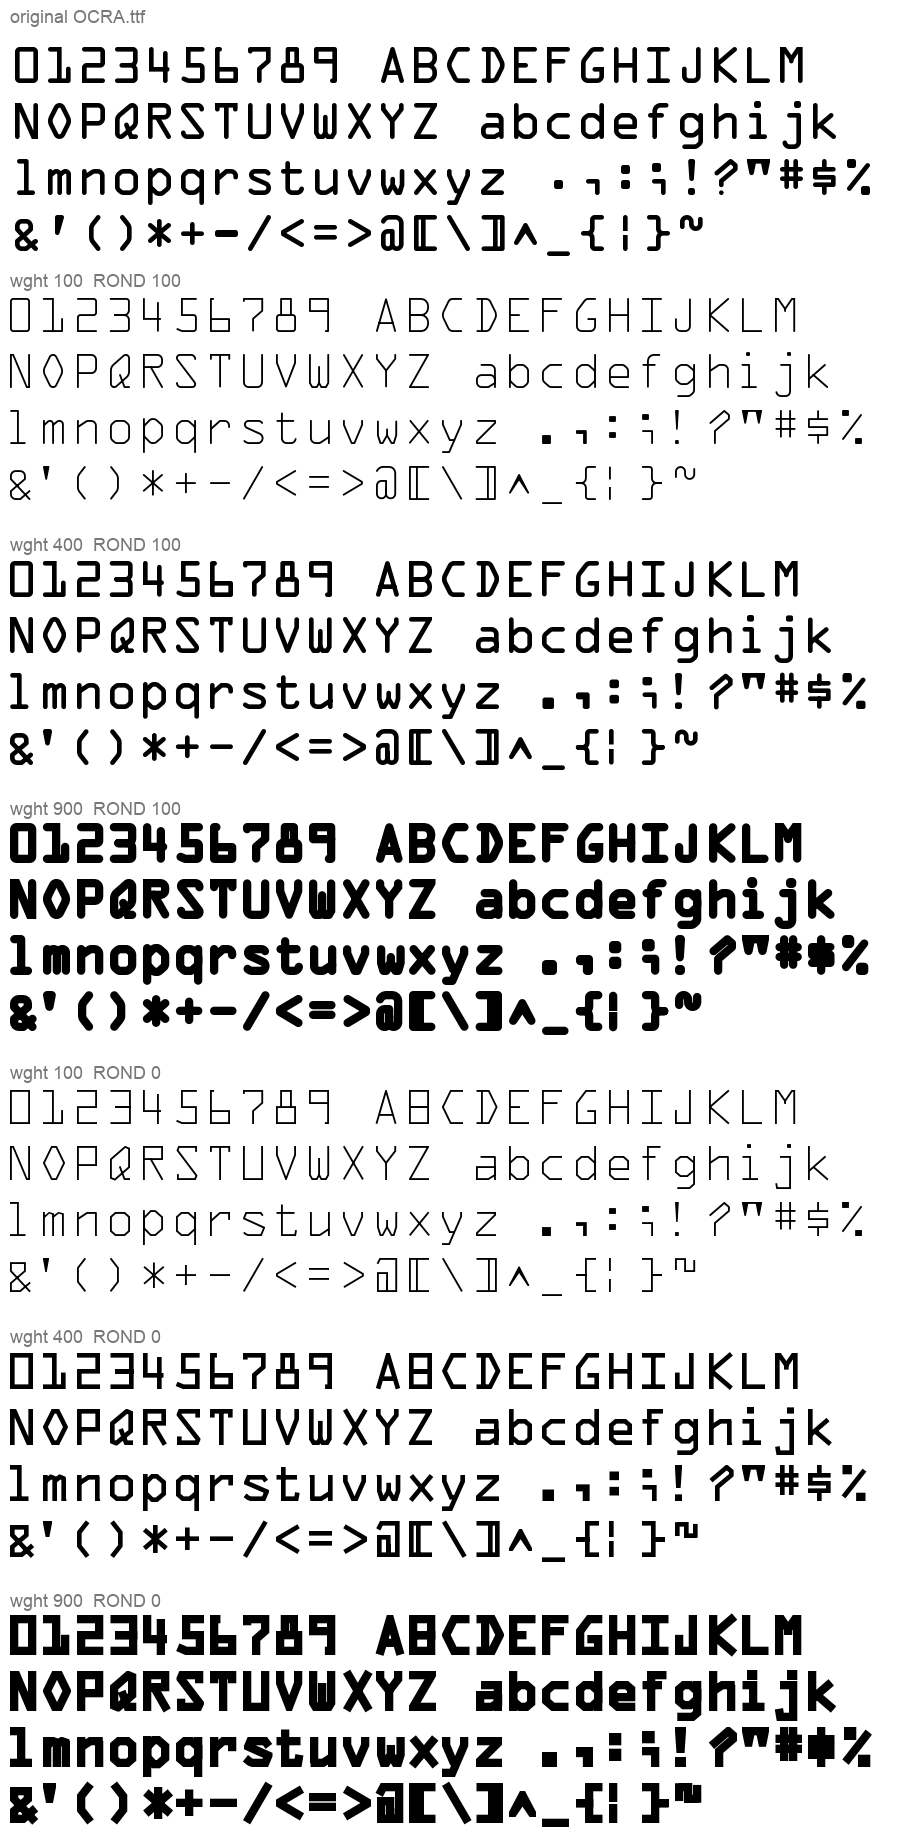
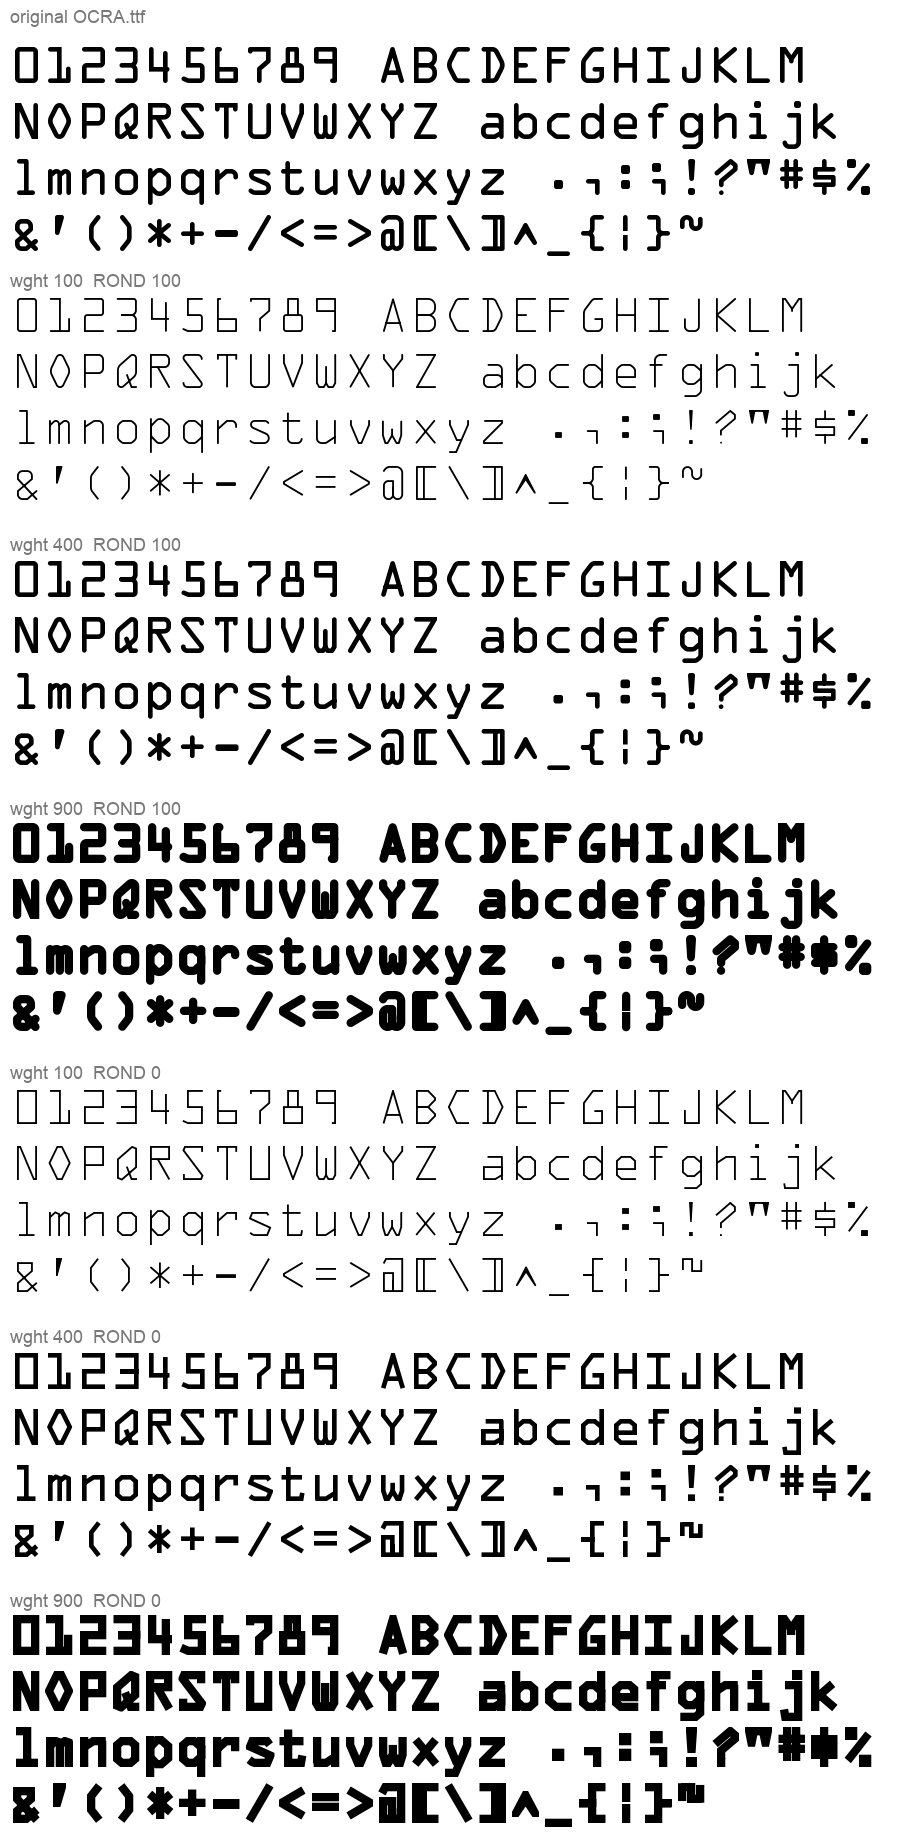
Refine OCR-A stroke font: metrics, caps, curves, and comparison page
- Set hmtx lsb to each glyph's xMin so glyphs no longer shift as ROND changes
- Do not map alternate glyphs (question.alt etc.) to Unicode
- Shorten rectangular caps on diagonal strokes to stay within the round cap extent
- Trim caps of strokes swallowed by heavy weights where they meet the next stroke
- Flatten arcs more finely and chamfer B's bowls at ROND 0
- Show the original OCR-A beside the variable font in the specimen page

diff --git a/specimen.html b/specimen.html
@@ -13,6 +13,7 @@
     --line: #dddad3;
     --accent: #c2410c;
     --cell: #ffffff;
+    --orig: #8a8780;
   }
   @media (prefers-color-scheme: dark) {
     :root {
@@ -23,6 +24,7 @@
       --line: #34332f;
       --accent: #fb923c;
       --cell: #1b1b1a;
+      --orig: #8f8c84;
     }
   }
   * { box-sizing: border-box; }
@@ -75,10 +77,17 @@
   .grid { display: grid; grid-template-columns: repeat(auto-fill, minmax(76px, 1fr)); gap: 6px; }
   .cell {
     background: var(--cell); border: 1px solid var(--line); border-radius: 6px;
-    aspect-ratio: 1 / 1.15;
+    aspect-ratio: 1 / 1.7;
     display: flex; flex-direction: column; align-items: center; justify-content: center;
   }
-  .cell .g { font-size: 44px; line-height: 1; }
+  .cell .g { font-size: 44px; line-height: 1.1; }
+  .cell .o { font-size: 44px; line-height: 1.1; color: var(--orig); }
+  .orig { font-family: "OCR-A original", monospace; color: var(--orig); }
+  .compare { font-size: var(--size); line-height: 1.15; overflow-wrap: anywhere; white-space: pre-wrap; }
+  .compare .pair { padding: 6px 0; border-bottom: 1px solid var(--line); }
+  .legend { display: flex; gap: 16px; font-size: 12px; color: var(--muted); margin-bottom: 6px; }
+  .legend span::before { content: ""; display: inline-block; width: 10px; height: 10px; border-radius: 2px; margin-right: 6px; vertical-align: -1px; background: var(--ink); }
+  .legend span.o::before { background: var(--orig); }
   .cell .u { font-size: 10px; color: var(--muted); margin-top: 6px; font-family: ui-monospace, Menlo, monospace; }
   .matrix { display: grid; gap: 4px 16px; grid-template-columns: auto 1fr; align-items: baseline; }
   .matrix .lab { color: var(--muted); font-size: 12px; font-family: ui-monospace, Menlo, monospace; white-space: nowrap; }
@@ -122,6 +131,12 @@ abcdefghijklmnopqrstuvwxyz
 !"#$%&amp;'()*+,-./:;&lt;=&gt;?@[\]^_`{|}~
 £¥ÄÅÆÑÖØÜ⑀⑁⑂│■</div>
     <div class="css" id="css"></div>
+  </section>
+
+  <section>
+    <h2>元の OCR-A と比較</h2>
+    <div class="legend"><span>OCRA Stroke（今の設定）</span><span class="o">元の OCR-A（Tsukurimashou 版 OCRA.ttf）</span></div>
+    <div class="compare" id="compare"></div>
   </section>
 
   <section>
@@ -176,22 +191,55 @@ abcdefghijklmnopqrstuvwxyz
     el.addEventListener("input", () => { if (el !== size) stopAnimation(); apply(); });
   }
 
-  // 全文字
+  // 全文字（上が OCRA Stroke、下が元の OCR-A）
   for (const ch of CHARS) {
     const cell = document.createElement("div");
     cell.className = "cell";
     const g = document.createElement("div");
     g.className = "g";
     g.textContent = ch;
+    const o = document.createElement("div");
+    o.className = "o orig";
+    o.textContent = ch;
     const u = document.createElement("div");
     u.className = "u";
     u.textContent = "U+" + ch.codePointAt(0).toString(16).toUpperCase().padStart(4, "0");
-    cell.append(g, u);
+    cell.append(g, o, u);
     $("grid").append(cell);
   }
 
+  // 元の OCR-A との比較。サンプルの各行の下に、同じ行を元の OCR-A で並べる
+  function renderCompare() {
+    const box = $("compare");
+    box.textContent = "";
+    for (const line of $("sample").innerText.split("\n")) {
+      if (!line.trim()) continue;
+      const pair = document.createElement("div");
+      pair.className = "pair";
+      const a = document.createElement("div");
+      a.className = "ocra";
+      a.textContent = line;
+      const b = document.createElement("div");
+      b.className = "orig";
+      b.textContent = line;
+      pair.append(a, b);
+      box.append(pair);
+    }
+  }
+  $("sample").addEventListener("input", renderCompare);
+  renderCompare();
+
   // 太さ × 角の丸み（スライダーとは独立した固定の比較）
   const MATRIX_TEXT = "ABC 0123 abc @&$";
+  {
+    const lab = document.createElement("div");
+    lab.className = "lab";
+    lab.textContent = "元の OCR-A";
+    const row = document.createElement("div");
+    row.className = "row orig";
+    row.textContent = MATRIX_TEXT;
+    $("matrix").append(lab, row);
+  }
   for (const r of [100, 50, 0]) {
     for (const w of [100, 400, 900]) {
       const lab = document.createElement("div");
@@ -231,6 +279,9 @@ abcdefghijklmnopqrstuvwxyz
   // フォントを読み込む。作り直したフォントがキャッシュで隠れないよう、毎回 URL を変える
   const face = new FontFace("OCRA Stroke VF", `url("dist/OCRAStroke-VF.ttf?t=${Date.now()}")`, { weight: "100 900" });
   document.fonts.add(face);
+  const origFace = new FontFace("OCR-A original", 'url("ref/OCRA.ttf")');
+  document.fonts.add(origFace);
+  origFace.load();
   face.load().then(() => {
     $("status").textContent = "";
   }).catch(() => {

diff --git a/build_ocra.py b/build_ocra.py
@@ -28,7 +28,8 @@ ASCENT, DESCENT = 800, -200
 STANDARD_WIDTH = 101  # ANSI の線幅 T
 WEIGHTS = {100: 40, 400: STANDARD_WIDTH, 900: 180}  # wght → 線幅
 STYLES = {100: "Thin", 300: "Light", 400: "Regular", 700: "Bold", 900: "Black"}
-ARC_STEPS = 2  # 角の丸め（ベジェ1本）を何本の線分に割るか
+ARC_STEPS = 6  # 角の丸め（ベジェ1本）を何本の線分に割るか（粗いと内側の縁がガタつく）
+CHAMFER_GLYPHS = {"B"}  # 角版で丸めの角を直角にせず面取りする字（B が「日」にならないように）
 MAX_CORNER_TURN = 100  # 曲線の区間がこれ以上（度）回るなら、角版で角を分ける
 K_JOIN = 7  # 頂点の外側の角を表す点の数
 K_CAP = 9  # キャップを表す点の数（両側の縁の点を除く）
@@ -209,7 +210,7 @@ def run_turn(run):
     return math.degrees(total)
 
 
-def corners_for_run(run, line_in=None, line_out=None):
+def corners_for_run(run, line_in=None, line_out=None, chamfer=False):
     """曲線の区間 run を角版での角の列に置き換える。
 
     区間を折れ線にした各点について (角版での位置, 区間の情報) を返す。
@@ -217,6 +218,7 @@ def corners_for_run(run, line_in=None, line_out=None):
     区間の情報は (始点, 始点の接線, 終点, 終点の接線, 半径の目安)。
     line_in, line_out は区間の前後の直線の向き。あればそれを延ばして角を求める
     （曲線の接線は直線の向きとわずかにずれ、角版で直線が傾いてしまう）。
+    chamfer なら直角の角にせず、曲線の始点と終点をまっすぐ結ぶ面取りにする。
     """
     angles = [math.atan2(*tangent_in(run[0])[::-1])]
     for s in run:
@@ -251,14 +253,20 @@ def corners_for_run(run, line_in=None, line_out=None):
         length = sum(math.hypot(*sub(flat_all[i + 1], flat_all[i])) for i in range(len(flat_all) - 1))
         turn = abs(angles[b] - angles[a])
         info = (start, d_in, end, d_out, length / turn if turn > 1e-6 else math.inf)
-        for s in sub_run:
-            for t in range(1, ARC_STEPS + 1):
-                p = bezier(*s, t / ARC_STEPS)
-                result.append((corner if corner else p, info))
+        flat = flat_all[1:]
+        if chamfer:
+            # 曲線上の各点を、弧の長さの割合で始点と終点を結ぶ直線の上に置く
+            along = 0.0
+            for k, p in enumerate(flat):
+                along += math.hypot(*sub(p, flat_all[k]))
+                result.append((add(start, mul(sub(end, start), along / length)), info))
+            continue
+        for p in flat:
+            result.append((corner if corner else p, info))
     return result
 
 
-def polyline(segs, cyc):
+def polyline(segs, cyc, chamfer=False):
     """中心線を折れ線にする。
 
     (丸め版の位置の列, 角版の位置の列, 各頂点の曲線区間の情報) を返す。
@@ -291,9 +299,10 @@ def polyline(segs, cyc):
         line_in = unit(sub(segs[i - 1][3], segs[i - 1][0])) if (i > 0 or cyc) and straight[i - 1] else None
         line_out = unit(sub(segs[j % len(segs)][3], segs[j % len(segs)][0])) \
             if (j < len(segs) or cyc) and straight[j % len(segs)] else None
-        targets = corners_for_run(run, line_in, line_out)
+        targets = corners_for_run(run, line_in, line_out, chamfer)
+        if (i > 0 or cyc) and not chamfer:
+            pts_sharp[-1] = targets[0][0]  # 曲線の始点も最初の角へ（線の端点や面取りなら動かさない）
         if i > 0 or cyc:
-            pts_sharp[-1] = targets[0][0]  # 曲線の始点も最初の角へ（線の端点なら動かさない）
             infos[-1] = targets[0][1]
         if j == len(segs) and not cyc:
             targets[-1] = (flat[-1], targets[-1][1])  # 線の端点は動かさない
@@ -310,9 +319,30 @@ def polyline(segs, cyc):
 
 # ---- 線の輪郭 ------------------------------------------------------------
 
+def trim_cap(side_pt, cap_pts, other_pt, line):
+    """線幅に飲み込まれた短い線の端のキャップを、隣の線の縁 line で切る。
+
+    端の縁の点 side_pt は隣の線の中（line の内側）にある。キャップを side_pt から
+    たどって最初に line を越える所を求め、それより手前の点をその交点にそろえる。
+    丸ペンで描いたときと同じく、隣の線の縁がキャップの円とぶつかる所で角になる。
+    """
+    origin, d = line
+    chain = [side_pt] + list(cap_pts) + [other_pt]
+    side = lambda q: cross(d, sub(q, origin))
+    s0 = side(side_pt)
+    if abs(s0) < 1e-9:
+        return cap_pts
+    for k in range(1, len(chain)):
+        if side(chain[k]) * s0 <= 0:
+            a, b = chain[k - 1], chain[k]
+            x = line_intersection(a, sub(b, a), origin, d) or b
+            return [x if m < k - 1 else q for m, q in enumerate(cap_pts)]
+    return cap_pts
+
+
 class Stroke:
-    def __init__(self, segs, cyc):
-        self.round, self.sharp, self.infos = polyline(segs, cyc)
+    def __init__(self, segs, cyc, chamfer=False):
+        self.round, self.sharp, self.infos = polyline(segs, cyc, chamfer)
         self.cyc = cyc
         self.n = len(self.round)
         self.sharp_points = set()  # 丸め版でも角にする頂点
@@ -482,11 +512,14 @@ class Stroke:
 
         # 先に内側どうしをまとめ、そのあとで端点や外側の点を合わせる
         # （先に端点を動かすと、鋭角で遠くへ飛んだ内側の点に端点が引っぱられる）
+        moved = {}
         for phase in (1, 2):
-            self._clean_pass(lists, inner, adjustable, endpoints, live, swallowed, segs, pts, n, h, sign, sharp_mode, phase)
-        return lists
+            self._clean_pass(lists, inner, adjustable, endpoints, live, swallowed, segs, pts, n, h, sign, sharp_mode,
+                             phase, moved)
+        return lists, moved
 
-    def _clean_pass(self, lists, inner, adjustable, endpoints, live, swallowed, segs, pts, n, h, sign, sharp_mode, phase):
+    def _clean_pass(self, lists, inner, adjustable, endpoints, live, swallowed, segs, pts, n, h, sign, sharp_mode,
+                    phase, moved):
         for _ in range(4 * n):
             changed = False
             for j in live:
@@ -531,8 +564,17 @@ class Stroke:
                             lists[i] = [p] * K_JOIN
                 elif i0 in endpoints or (adjustable(i0) and not adjustable(i1)):
                     lists[i0] = [b] * K_JOIN
+                    if i0 in endpoints:
+                        # 端点を寄せた先の点が乗る縁（飲み込まれていない次の線分の縁）を覚えておく
+                        k = next((k for k in live if k > j and k not in swallowed), None)
+                        if k is not None:
+                            moved[i0] = self.edge(k, h, sign, sharp_mode)
                 else:
                     lists[i1] = [a] * K_JOIN
+                    if i1 in endpoints:
+                        k = next((k for k in reversed(live) if k < j and k not in swallowed), None)
+                        if k is not None:
+                            moved[i1] = self.edge(k, h, sign, sharp_mode)
             if not changed:
                 break
 
@@ -546,7 +588,14 @@ class Stroke:
         if sharp_mode and i in self.butt:
             chain = resample([n, mul(n, -1)], K_CAP + 2)
         elif sharp_mode or flagged:
-            chain = resample([n, add(n, d), add(mul(n, -1), d), mul(n, -1)], K_CAP + 2)
+            # 線に直角な長方形の端。斜めの線では延ばす長さを縮め、線の主な向き
+            # （横に近い線なら横、縦に近い線なら縦）で、長方形の角が丸い端と同じ所
+            # （端点から線幅/2）まで届くようにする。
+            # そうしないと斜めの端が張り出し、ROND を下げると字が左右にずれる
+            a = 0 if abs(d[0]) >= abs(d[1]) else 1
+            reach = min(1.0, (1 - abs(n[a])) / abs(d[a]))
+            e = mul(d, reach)
+            chain = resample([n, add(n, e), add(mul(n, -1), e), mul(n, -1)], K_CAP + 2)
         else:
             chain = arc_chain(n, -math.pi, K_CAP + 2)
         return [add(v, mul(p, h)) for p in chain[1:-1]]
@@ -562,20 +611,33 @@ class Stroke:
             for g in self.groups():
                 self.map_group(g, h, sides)
         inner = [x[2] for x in sides]
-        left = self.clean_side([x[0] for x in sides], inner, "L", 1, h, sharp_mode)
-        right = self.clean_side([x[1] for x in sides], inner, "R", -1, h, sharp_mode)
+        orig_ends = {i: (sides[i][0][0], sides[i][1][0]) for i in (0, n - 1)} if not self.cyc else {}
+        left, moved_l = self.clean_side([x[0] for x in sides], inner, "L", 1, h, sharp_mode)
+        right, moved_r = self.clean_side([x[1] for x in sides], inner, "R", -1, h, sharp_mode)
         if self.cyc:
             return [[p for l in left for p in l], [p for r in right for p in r][::-1]]
+        cap_end = self.cap(n - 1, h, sharp_mode)  # 左の縁 → 右の縁
+        cap_start = self.cap(0, h, sharp_mode)  # 右の縁 → 左の縁
+        l0, r0 = orig_ends[0]
+        le, re = orig_ends[n - 1]
+        if 0 in moved_r:
+            cap_start = trim_cap(r0, cap_start, l0, moved_r[0])
+        if 0 in moved_l:
+            cap_start = trim_cap(l0, cap_start[::-1], r0, moved_l[0])[::-1]
+        if n - 1 in moved_l:
+            cap_end = trim_cap(le, cap_end, re, moved_l[n - 1])
+        if n - 1 in moved_r:
+            cap_end = trim_cap(re, cap_end[::-1], le, moved_r[n - 1])[::-1]
         out = [left[0][0]]
         for i in range(1, n - 1):
             out += left[i]
         out.append(left[n - 1][0])
-        out += self.cap(n - 1, h, sharp_mode)
+        out += cap_end
         out.append(right[n - 1][0])
         for i in range(n - 2, 0, -1):
             out += right[i][::-1]
         out.append(right[0][0])
-        out += self.cap(0, h, sharp_mode)
+        out += cap_start
         return [out]
 
 
@@ -732,7 +794,8 @@ def merge_strokes(strokes):
 
 def prepare(g):
     """字形ごとの線を用意し、角の指定と、延ばさないキャップを決める。"""
-    strokes = [Stroke(segs, cyc) for segs, cyc in merge_strokes(g["strokes"])]
+    chamfer = g["name"] in CHAMFER_GLYPHS
+    strokes = [Stroke(segs, cyc, chamfer) for segs, cyc in merge_strokes(g["strokes"])]
     extra_corners = []
     for c in g["corners"]:
         hit = False
@@ -850,6 +913,10 @@ def build_master(glyphs, preps, width, roundness, style):
     cmap = {}
     for g in glyphs:
         # ASCII はソースの文字コードを使う（circumflex, tilde を ^ ~ に割り当てるため）
+        # 代替字形（question.alt など）は文字に割り当てない。
+        # toUnicode は ".alt" を無視するので、そのままだと元の字を上書きしてしまう
+        if "." in g["name"]:
+            continue
         u = chr(g["code"]) if 32 <= g["code"] < 127 else toUnicode(g["name"])
         if len(u) == 1:
             cmap[ord(u)] = g["name"]
@@ -858,7 +925,12 @@ def build_master(glyphs, preps, width, roundness, style):
     empty.numberOfContours = 0
     fb.setupGlyf({".notdef": empty, **{g["name"]: draw_glyph(preps[g["name"]], width, roundness) for g in glyphs}})
     adv = int(round(glyphs[0]["advance"]))
-    fb.setupHorizontalMetrics({n: (adv, 0) for n in order})
+    glyf = fb.font["glyf"]
+    for g in glyf.glyphs.values():
+        g.recalcBounds(glyf)
+    # 左サイドベアリングは輪郭の左端と同じにする。0 のままだと、ROND や wght で
+    # 輪郭の左端が動いたとき、ラスタライザがその分だけ字を横へずらして置いてしまう
+    fb.setupHorizontalMetrics({n: (adv, getattr(glyf[n], "xMin", 0)) for n in order})
     fb.setupHorizontalHeader(ascent=ASCENT, descent=DESCENT)
     fb.setupNameTable({"familyName": FAMILY, "styleName": style, "copyright": COPYRIGHT,
                        "description": "OCR-A rebuilt from its ANSI X3.17 centerlines with variable stroke width and corner roundness."})
